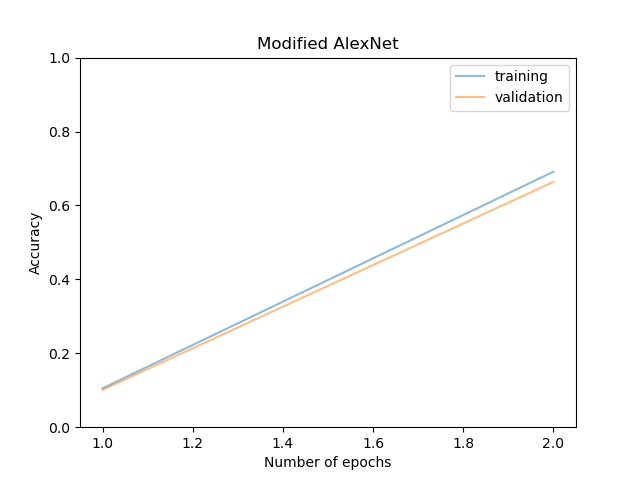
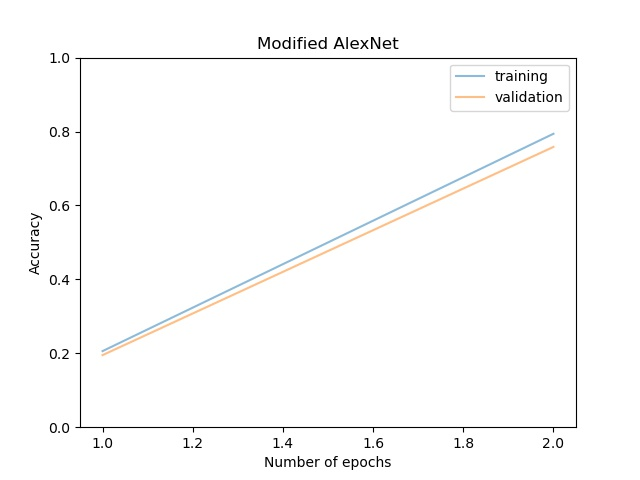
fix: now only keep last learning curve plot

diff --git a/classifier/plugin.py b/classifier/plugin.py
@@ -174,6 +174,9 @@ def plot_train_val_performance(folder_path: Path,
             plt.legend()
             if save:
                 plt.savefig(folder_path / f'{epoch} epochs.jpg')
+                # delete previous plot
+                if Path((folder_path / f'{epoch-step} epochs.jpg')).exists():
+                    Path.unlink(Path((folder_path / f'{epoch-step} epochs.jpg')))
             if show:
                 plt.show()
     return plugin
